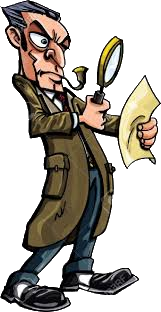
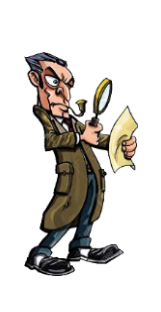
Serlokas

diff --git a/index.html b/index.html
@@ -8,12 +8,12 @@
     </head>
 
     <body style="background-color: #ebe3e3;"> 
-    <img style="display: inline-block; float: left; width: 20%; margin-left: 15%; margin-top: 100px ;" src="./serlokas baigtas.png" alt="Serloko nuotrauka">
-    <div style="display: inline-block; float: left; width: 30%; margin-left: 10%; margin-top: 100px ;">
+    <img style="display: inline-block; float: left; width: 20%; margin-left: 20%; margin-top: 50px ;" src="./serlokas baigtas.png" alt="Serloko nuotrauka">
+    <div style="display: inline-block; float: left; width: 25%; margin-left: 5%; margin-top: 100px ;">
         <h1>404</h1>
-        <p>Lorem ipsum dolor sit amet consectetur adipisicing elit.
-             Error dolor id exercitationem esse excepturi dolores.</p>
-        <p>Lorem ipsum dolor sit amet consectetur adipisicing.</p>
+        <p>Looks like this page is missing.
+            Don't worry though, our best man is on the case.</p>
+        <p>Meanwhile, why don't try again by going</p>
         <a href="#">Back home</a>
     </div>
     </body>
